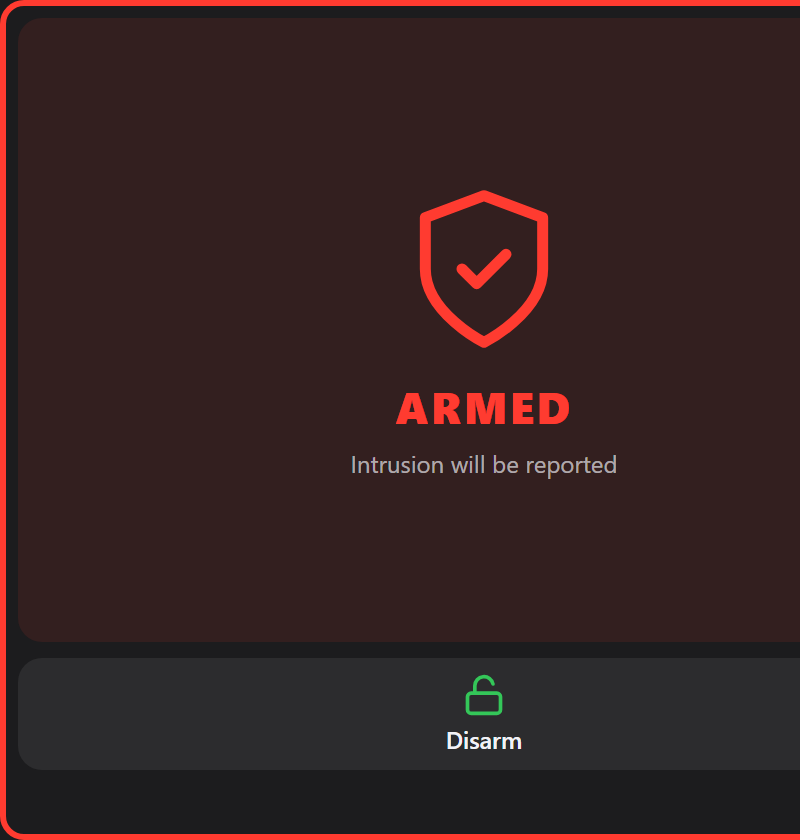
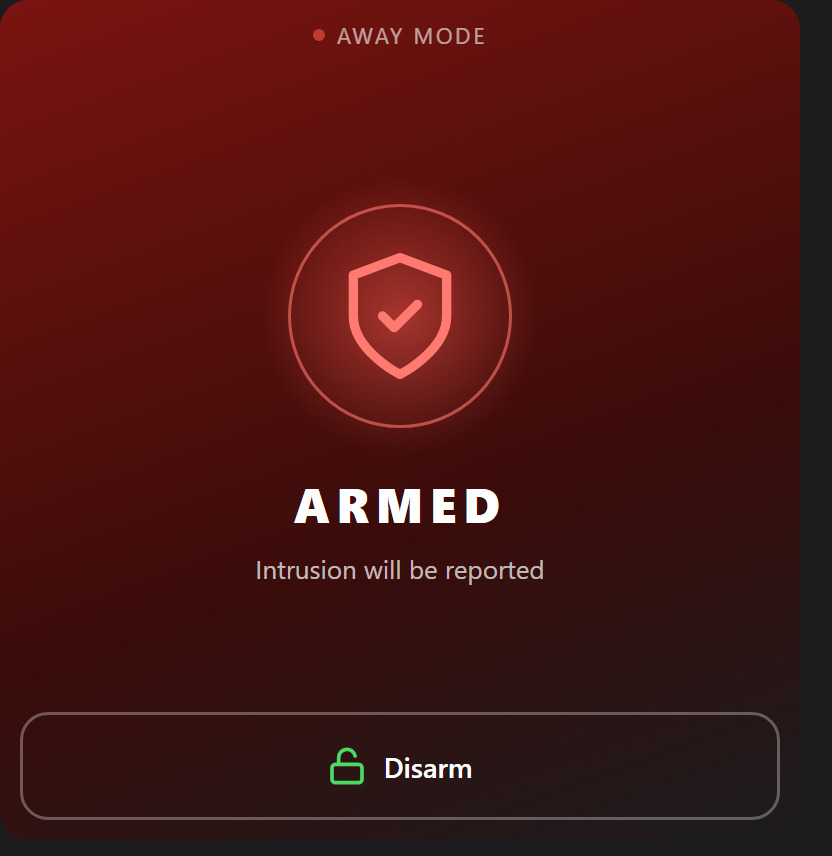
Store images: real renders of the widgets instead of drawn shapes

diff --git a/dev/render-images.js b/dev/render-images.js
@@ -2,7 +2,7 @@
 // Renders every store image from vector sources with resvg (deterministic):
 //  - driver images: white background, recognisable illustration of the device
 //  - app images: composition of the keypad illustration and the widget
-//  - widget previews: 1024x1024 transparent, simple shapes, light and dark
+//  - widget previews are real renders, see dev/render-previews.js (npm run previews)
 // Usage: npm run images
 const fs = require('fs');
 const path = require('path');
@@ -60,112 +60,3 @@ function appImage(w, h) {
 for (const [name, [w, h]] of Object.entries({ small: [250, 175], large: [500, 350], xlarge: [1000, 700] })) {
   write(`assets/images/${name}.png`, render(appImage(w, h), w));
 }
-
-// ------------------------------------------------------------- widget previews
-// Guideline: 1024x1024, transparent, simple shapes, no text, light + dark.
-function widgetPreview(dark) {
-  const card = dark ? '#1c1c1e' : '#ffffff';
-  const key = dark ? '#2c2c2e' : '#f2f2f7';
-  const text = dark ? '#48484a' : '#d1d1d6';
-  const shadow = `<defs><filter id="sh" x="-10%" y="-10%" width="120%" height="120%"><feDropShadow dx="0" dy="24" stdDeviation="28" flood-color="#000" flood-opacity="${dark ? '.5' : '.22'}"/></filter></defs>`;
-  if (!dark) {
-    // Disarmed view: status bar, sensor rows (icon, name bar, mode pill), Arm / Home keys
-    const rows = [];
-    for (let r = 0; r < 6; r++) {
-      const y = 300 + r * 84;
-      rows.push(`<rect x="132" y="${y}" width="760" height="68" rx="22" fill="${r === 0 ? '#ffefd6' : key}"/>
-  <rect x="156" y="${y + 18}" width="32" height="32" rx="8" fill="${text}"/>
-  <rect x="212" y="${y + 24}" width="${260 + (r % 3) * 60}" height="20" rx="10" fill="${text}"/>
-  <rect x="780" y="${y + 16}" width="88" height="36" rx="12" fill="${dark ? '#3a3a3c' : '#e3e3e8'}"/>
-  <circle cx="806" cy="${y + 34}" r="9" fill="#ff3b30"/><circle cx="842" cy="${y + 34}" r="9" fill="#ff9500" opacity="${r === 2 || r === 4 ? '.25' : '1'}"/>`);
-    }
-    return `<svg xmlns="http://www.w3.org/2000/svg" width="1024" height="1024" viewBox="0 0 1024 1024">
-  ${shadow}
-  <g filter="url(#sh)"><rect x="92" y="92" width="840" height="840" rx="64" fill="${card}"/></g>
-  <rect x="132" y="140" width="760" height="120" rx="30" fill="${key}"/>
-  <circle cx="196" cy="200" r="22" fill="#34c759"/>
-  <rect x="244" y="176" width="260" height="30" rx="15" fill="${text}"/>
-  <rect x="244" y="216" width="120" height="16" rx="8" fill="${text}" opacity=".6"/>
-  ${rows.join('\n  ')}
-  <rect x="132" y="824" width="368" height="84" rx="24" fill="${key}"/>
-  <rect x="524" y="824" width="368" height="84" rx="24" fill="${key}"/>
-  <path d="M316 846l20 8v14c0 12-9 20-20 24-11-4-20-12-20-24v-14z" fill="none" stroke="#ff3b30" stroke-width="5" stroke-linejoin="round"/>
-  <path d="M690 870l18-16 18 16v20h-36z" fill="none" stroke="#ff9500" stroke-width="5" stroke-linejoin="round"/>
-</svg>`;
-  }
-  // Armed view: bordered panel with a shield mark and one Disarm key
-  return `<svg xmlns="http://www.w3.org/2000/svg" width="1024" height="1024" viewBox="0 0 1024 1024">
-  ${shadow}
-  <g filter="url(#sh)"><rect x="92" y="92" width="840" height="840" rx="64" fill="${card}" stroke="#ff3b30" stroke-width="10"/></g>
-  <rect x="132" y="140" width="760" height="620" rx="36" fill="#2b1f1f"/>
-  <path d="M512 300l90 36v64c0 56-40 94-90 112-50-18-90-56-90-112v-64z" fill="none" stroke="#ff3b30" stroke-width="22" stroke-linejoin="round"/>
-  <path d="M470 418l30 30 54-60" fill="none" stroke="#ff3b30" stroke-width="22" stroke-linecap="round" stroke-linejoin="round"/>
-  <rect x="402" y="560" width="220" height="34" rx="17" fill="#ff3b30"/>
-  <rect x="362" y="620" width="300" height="18" rx="9" fill="#6e5a5a"/>
-  <rect x="132" y="800" width="760" height="100" rx="28" fill="${key}"/>
-  <rect x="490" y="836" width="44" height="34" rx="8" fill="none" stroke="#34c759" stroke-width="6"/>
-  <path d="M500 836v-10a12 12 0 0 1 24-4" fill="none" stroke="#34c759" stroke-width="6" stroke-linecap="round"/>
-</svg>`;
-}
-write('widgets/keypad/preview-light.png', render(widgetPreview(false), 1024));
-write('widgets/keypad/preview-dark.png', render(widgetPreview(true), 1024));
-
-// Sensor status widget: a short list of rows (icon, name bar, state dot + bar), no card chrome.
-function sensorsPreview(dark) {
-  const card = dark ? '#1c1c1e' : '#ffffff';
-  const key = dark ? '#2c2c2e' : '#f2f2f7';
-  const text = dark ? '#48484a' : '#d1d1d6';
-  const rows = [];
-  for (let r = 0; r < 5; r++) {
-    const y = 160 + r * 148;
-    const open = r === 0;
-    rows.push(`<rect x="132" y="${y}" width="760" height="124" rx="28" fill="${open ? (dark ? '#3a2d1f' : '#ffefd6') : key}"/>
-  <rect x="168" y="${y + 40}" width="44" height="44" rx="10" fill="${text}"/>
-  <rect x="244" y="${y + 34}" width="${280 + (r % 3) * 70}" height="26" rx="13" fill="${text}"/>
-  <rect x="244" y="${y + 74}" width="140" height="16" rx="8" fill="${text}" opacity=".6"/>
-  <circle cx="724" cy="${y + 50}" r="12" fill="${open ? '#ff9500' : '#34c759'}"/>
-  <rect x="748" y="${y + 38}" width="110" height="24" rx="12" fill="${open ? '#ff9500' : text}" opacity="${open ? '.8' : '1'}"/>
-  <rect x="700" y="${y + 76}" width="158" height="14" rx="7" fill="${text}" opacity=".6"/>`);
-  }
-  const shadow = `<defs><filter id="sh" x="-10%" y="-10%" width="120%" height="120%"><feDropShadow dx="0" dy="24" stdDeviation="28" flood-color="#000" flood-opacity="${dark ? '.5' : '.22'}"/></filter></defs>`;
-  return `<svg xmlns="http://www.w3.org/2000/svg" width="1024" height="1024" viewBox="0 0 1024 1024">
-  ${shadow}
-  <g filter="url(#sh)"><rect x="92" y="92" width="840" height="840" rx="64" fill="${card}"/></g>
-  ${rows.join('\n  ')}
-</svg>`;
-}
-write('widgets/sensors/preview-light.png', render(sensorsPreview(false), 1024));
-write('widgets/sensors/preview-dark.png', render(sensorsPreview(true), 1024));
-
-// Timeline widget: time bar, icon, name bar and a state pill per row, one muted system row.
-function timelinePreview(dark) {
-  const card = dark ? '#1c1c1e' : '#ffffff';
-  const key = dark ? '#2c2c2e' : '#f2f2f7';
-  const text = dark ? '#48484a' : '#d1d1d6';
-  const rows = [];
-  for (let r = 0; r < 6; r++) {
-    const y = 150 + r * 124;
-    if (r === 3) {
-      rows.push(`<rect x="132" y="${y}" width="760" height="100" rx="24" fill="${key}" opacity=".6"/>
-  <rect x="380" y="${y + 40}" width="264" height="20" rx="10" fill="${text}"/>`);
-      continue;
-    }
-    const open = r % 2 === 0;
-    rows.push(`<rect x="132" y="${y}" width="760" height="100" rx="24" fill="${key}"/>
-  <rect x="160" y="${y + 38}" width="88" height="24" rx="12" fill="${text}"/>
-  <rect x="276" y="${y + 30}" width="40" height="40" rx="10" fill="${text}"/>
-  <rect x="340" y="${y + 26}" width="${220 + (r % 3) * 60}" height="24" rx="12" fill="${text}"/>
-  <rect x="340" y="${y + 62}" width="120" height="14" rx="7" fill="${text}" opacity=".6"/>
-  <circle cx="760" cy="${y + 50}" r="11" fill="${open ? '#ff9500' : '#34c759'}"/>
-  <rect x="784" y="${y + 39}" width="84" height="22" rx="11" fill="${open ? '#ff9500' : text}" opacity="${open ? '.8' : '1'}"/>`);
-  }
-  const shadow = `<defs><filter id="sh" x="-10%" y="-10%" width="120%" height="120%"><feDropShadow dx="0" dy="24" stdDeviation="28" flood-color="#000" flood-opacity="${dark ? '.5' : '.22'}"/></filter></defs>`;
-  return `<svg xmlns="http://www.w3.org/2000/svg" width="1024" height="1024" viewBox="0 0 1024 1024">
-  ${shadow}
-  <g filter="url(#sh)"><rect x="92" y="92" width="840" height="840" rx="64" fill="${card}"/></g>
-  ${rows.join('\n  ')}
-</svg>`;
-}
-write('widgets/timeline/preview-light.png', render(timelinePreview(false), 1024));
-write('widgets/timeline/preview-dark.png', render(timelinePreview(true), 1024));
-

diff --git a/dev/render-previews.js b/dev/render-previews.js
@@ -1,8 +1,10 @@
 'use strict';
-// Renders the real keypad widget with headless Edge/Chrome into dev/art/*.png,
-// used by dev/render-images.js for the app store composition. The store
-// widget previews themselves are simple-shape mockups (guideline), drawn there.
-// Usage: npm run previews
+// Renders the real widgets with headless Edge/Chrome:
+//  - widgets/<id>/preview-light.png and preview-dark.png (1024x1024,
+//    transparent, the widget as a dashboard tile) for the App Store
+//  - dev/art/widget-light.png and widget-dark.png, embedded in the app
+//    images by dev/render-images.js
+// Usage: npm run previews   (then npm run images for the app images)
 const { execFileSync } = require('child_process');
 const fs = require('fs');
 const os = require('os');
@@ -19,19 +21,31 @@ const candidates = [
 const browser = candidates.find(p => fs.existsSync(p));
 if (!browser) throw new Error('No Edge/Chrome found for headless rendering');
 
-const page = `file:///${path.join(root, 'dev', 'widget-shot.html').replace(/\\/g, '/')}`;
+const pageUrl = file => `file:///${path.join(root, 'dev', file).replace(/\\/g, '/')}`;
+
 const shots = [
-  { out: 'dev/art/widget-light.png', query: 'state=disarmed' },
-  { out: 'dev/art/widget-dark.png', query: 'state=armed&dark=1' },
+  // store previews: the tile on a transparent 512x512 page, rendered at 2x
+  { out: 'widgets/keypad/preview-light.png', page: 'preview-shot.html', query: 'widget=keypad&state=disarmed', size: [512, 512] },
+  { out: 'widgets/keypad/preview-dark.png', page: 'preview-shot.html', query: 'widget=keypad&state=armed&dark=1', size: [512, 512] },
+  { out: 'widgets/sensors/preview-light.png', page: 'preview-shot.html', query: 'widget=sensors', size: [512, 512] },
+  { out: 'widgets/sensors/preview-dark.png', page: 'preview-shot.html', query: 'widget=sensors&dark=1', size: [512, 512] },
+  { out: 'widgets/timeline/preview-light.png', page: 'preview-shot.html', query: 'widget=timeline&window=all', size: [512, 512] },
+  { out: 'widgets/timeline/preview-dark.png', page: 'preview-shot.html', query: 'widget=timeline&window=all&dark=1', size: [512, 512] },
+  // the keypad on its own, for the app images
+  { out: 'dev/art/widget-light.png', page: 'widget-shot.html', query: 'state=disarmed&w=400&h=420', size: [416, 428] },
+  { out: 'dev/art/widget-dark.png', page: 'widget-shot.html', query: 'state=armed&dark=1&w=400&h=420', size: [416, 428] },
 ];
+
 for (const s of shots) {
   const profile = fs.mkdtempSync(path.join(os.tmpdir(), 'homey-shot-'));
+  const out = path.join(root, s.out);
+  fs.mkdirSync(path.dirname(out), { recursive: true });
   execFileSync(browser, [
     '--headless=new', '--disable-gpu', '--allow-file-access-from-files', '--hide-scrollbars', '--no-first-run',
-    `--user-data-dir=${profile}`, '--force-device-scale-factor=2', '--window-size=400,420',
-    '--virtual-time-budget=2000', '--default-background-color=00000000',
-    `--screenshot=${path.join(root, s.out)}`, `${page}?${s.query}`,
+    `--user-data-dir=${profile}`, '--force-device-scale-factor=2', `--window-size=${s.size[0]},${s.size[1]}`,
+    '--default-background-color=00000000', '--virtual-time-budget=3000',
+    `--screenshot=${out}`, `${pageUrl(s.page)}?${s.query}`,
   ], { stdio: 'ignore' });
-  try { fs.rmSync(profile, { recursive: true, force: true }); } catch (err) { /* browser may still hold files */ }
-  console.log('rendered', s.out, fs.statSync(path.join(root, s.out)).size, 'bytes');
+  try { fs.rmSync(profile, { recursive: true, force: true, maxRetries: 5, retryDelay: 200 }); } catch (err) { /* the browser may still hold a lock; the temp dir is harmless */ }
+  console.log('rendered', s.out, fs.statSync(out).size, 'bytes');
 }

diff --git a/dev/sensors-shot.html b/dev/sensors-shot.html
@@ -1,12 +1,13 @@
 <!DOCTYPE html>
 <!-- Mock harness for the sensor status widget: open with ?mode=armed&zone=Hal&modes=1&dark=1 -->
-<html><head><meta charset="utf-8"><style>body{margin:0;padding:12px;font-family:-apple-system,"Segoe UI",system-ui,sans-serif;width:340px}body.homey-dark-mode{color:#f2f2f7;background:#1c1c1e}</style></head>
+<html><head><meta charset="utf-8"><style>body{margin:0;padding:12px;font-family:-apple-system,"Segoe UI",system-ui,sans-serif;width:auto}body.homey-dark-mode{color:#f2f2f7;background:#1c1c1e}body.transparent{background:transparent}</style></head>
 <body>
-<iframe id="f" src="../widgets/sensors/public/index.html" style="width:316px;height:400px;border:0"></iframe>
+<iframe id="f" src="../widgets/sensors/public/index.html" style="width:100%;height:400px;border:0"></iframe>
 <script>
 (function(){
   var q=new URLSearchParams(location.search);
   if(q.get('dark')==='1')document.body.classList.add('homey-dark-mode');
+  if(q.get('transparent')==='1')document.body.classList.add('transparent');
   var now=Date.now();
   var sensors=[
     {id:'d1:alarm_contact',deviceId:'d1',name:'Front door',capability:'alarm_contact',modes:['armed','partially_armed'],enabled:true,active:true,zone:'Hal',lastActiveAt:now-130000},
@@ -25,7 +26,8 @@
   var f=document.getElementById('f');
   f.addEventListener('load',function(){
     var w=f.contentWindow;
-    if(q.get('dark')==='1')w.document.body.classList.add('homey-dark-mode');
+    w.document.body.style.fontFamily='-apple-system,"Segoe UI",Roboto,Helvetica,Arial,sans-serif';
+    if(q.get('dark')==='1'){w.document.body.classList.add('homey-dark-mode');w.document.body.style.color='#f2f2f7';}
     w.onHomeyReady({
       ready:function(o){if(o&&o.height){f.style.height=o.height+'px'}document.title='ready'},
       getSettings:function(){return {hideWhenArmed:q.get('hide')!=='0',zone:q.get('zone')?{id:q.get('zone'),name:q.get('zone')}:null,showModes:q.get('modes')==='1',showExcluded:q.get('excluded')==='1',height:q.get('height')||'420'}},

diff --git a/dev/timeline-shot.html b/dev/timeline-shot.html
@@ -1,12 +1,13 @@
 <!DOCTYPE html>
 <!-- Mock harness for the sensor timeline widget: open with ?mode=armed&zone=Hal&window=1h&height=200&system=0&dark=1 -->
-<html><head><meta charset="utf-8"><style>body{margin:0;padding:12px;font-family:-apple-system,"Segoe UI",system-ui,sans-serif;width:340px}body.homey-dark-mode{color:#f2f2f7;background:#1c1c1e}</style></head>
+<html><head><meta charset="utf-8"><style>body{margin:0;padding:12px;font-family:-apple-system,"Segoe UI",system-ui,sans-serif;width:auto}body.homey-dark-mode{color:#f2f2f7;background:#1c1c1e}body.transparent{background:transparent}</style></head>
 <body>
-<iframe id="f" src="../widgets/timeline/public/index.html" style="width:316px;height:300px;border:0"></iframe>
+<iframe id="f" src="../widgets/timeline/public/index.html" style="width:100%;height:300px;border:0"></iframe>
 <script>
 (function(){
   var q=new URLSearchParams(location.search);
   if(q.get('dark')==='1')document.body.classList.add('homey-dark-mode');
+  if(q.get('transparent')==='1')document.body.classList.add('transparent');
   var now=Date.now(), m=60000;
   var ev=[
     {at:now-2*m,type:'sensor',id:'door',name:'Front door',active:true,capability:'alarm_contact',zone:'Hal'},
@@ -28,7 +29,8 @@
   var f=document.getElementById('f');
   f.addEventListener('load',function(){
     var w=f.contentWindow;
-    if(q.get('dark')==='1')w.document.body.classList.add('homey-dark-mode');
+    w.document.body.style.fontFamily='-apple-system,"Segoe UI",Roboto,Helvetica,Arial,sans-serif';
+    if(q.get('dark')==='1'){w.document.body.classList.add('homey-dark-mode');w.document.body.style.color='#f2f2f7';}
     w.onHomeyReady({
       ready:function(o){if(o&&o.height){f.style.height=o.height+'px'}document.title='ready'},
       getSettings:function(){return {hideWhenArmed:q.get('hide')!=='0',zone:q.get('zone')?{id:q.get('zone'),name:q.get('zone')}:null,window:q.get('window')||'30',height:q.get('height')||'300',showSystem:q.get('system')!=='0'}},

diff --git a/dev/preview-shot.html b/dev/preview-shot.html
@@ -1,0 +1,31 @@
+<!DOCTYPE html>
+<!-- Store preview harness: one widget as a dashboard tile, centred on a
+     transparent 512x512 page (rendered at 2x = 1024x1024).
+     ?widget=keypad|sensors|timeline&state=...&dark=1 -->
+<html><head><meta charset="utf-8">
+<style>
+  html, body { margin: 0; width: 512px; height: 512px; background: transparent; overflow: hidden; }
+  body { display: flex; align-items: center; justify-content: center; font-family: -apple-system, "Segoe UI", Roboto, Helvetica, Arial, sans-serif; }
+  .tile { width: 400px; height: 440px; border-radius: 28px; background: #ffffff; box-shadow: 0 18px 40px rgba(0,0,0,.22); padding: 10px; overflow: hidden; }
+  body.dark .tile { background: #1c1c1e; box-shadow: 0 18px 40px rgba(0,0,0,.6); }
+  body.bare .tile { background: transparent; box-shadow: none; }
+  iframe { width: 100%; height: 100%; border: 0; display: block; background: transparent; }
+</style></head>
+<body>
+<div class="tile"><iframe id="f"></iframe></div>
+<script>
+(function(){
+  var q = new URLSearchParams(location.search);
+  var widget = q.get('widget') || 'keypad';
+  var dark = q.get('dark') === '1';
+  if (dark) document.body.classList.add('dark');
+  var pages = { keypad: 'widget-shot.html', sensors: 'sensors-shot.html', timeline: 'timeline-shot.html' };
+  var params = new URLSearchParams();
+  q.forEach(function (v, k) { if (k !== 'widget') params.set(k, v); });
+  if (widget === 'sensors' && !params.get('height')) params.set('height', '420');
+  if (widget === 'timeline' && !params.get('height')) params.set('height', '420');
+  if (widget === 'timeline') params.set('transparent', '1');
+  document.getElementById('f').src = pages[widget] + '?' + params.toString();
+})();
+</script>
+</body></html>

diff --git a/dev/widget-shot.html b/dev/widget-shot.html
@@ -1048,6 +1048,7 @@
   var q = new URLSearchParams(location.search);
   var dark = q.get('dark') === '1';
   if (dark) document.body.classList.add('homey-dark-mode');
+  if (q.get('w')) { document.documentElement.style.width = q.get('w') + 'px'; document.documentElement.style.height = (q.get('h') || 420) + 'px'; }
   var now = Date.now();
   var sensors = [
     {id:'d1:alarm_contact',deviceId:'d1',name:'Front door',capability:'alarm_contact',modes:['armed','partially_armed'],enabled:true,active:true,zone:'Hal',lastActiveAt:now-130000},
